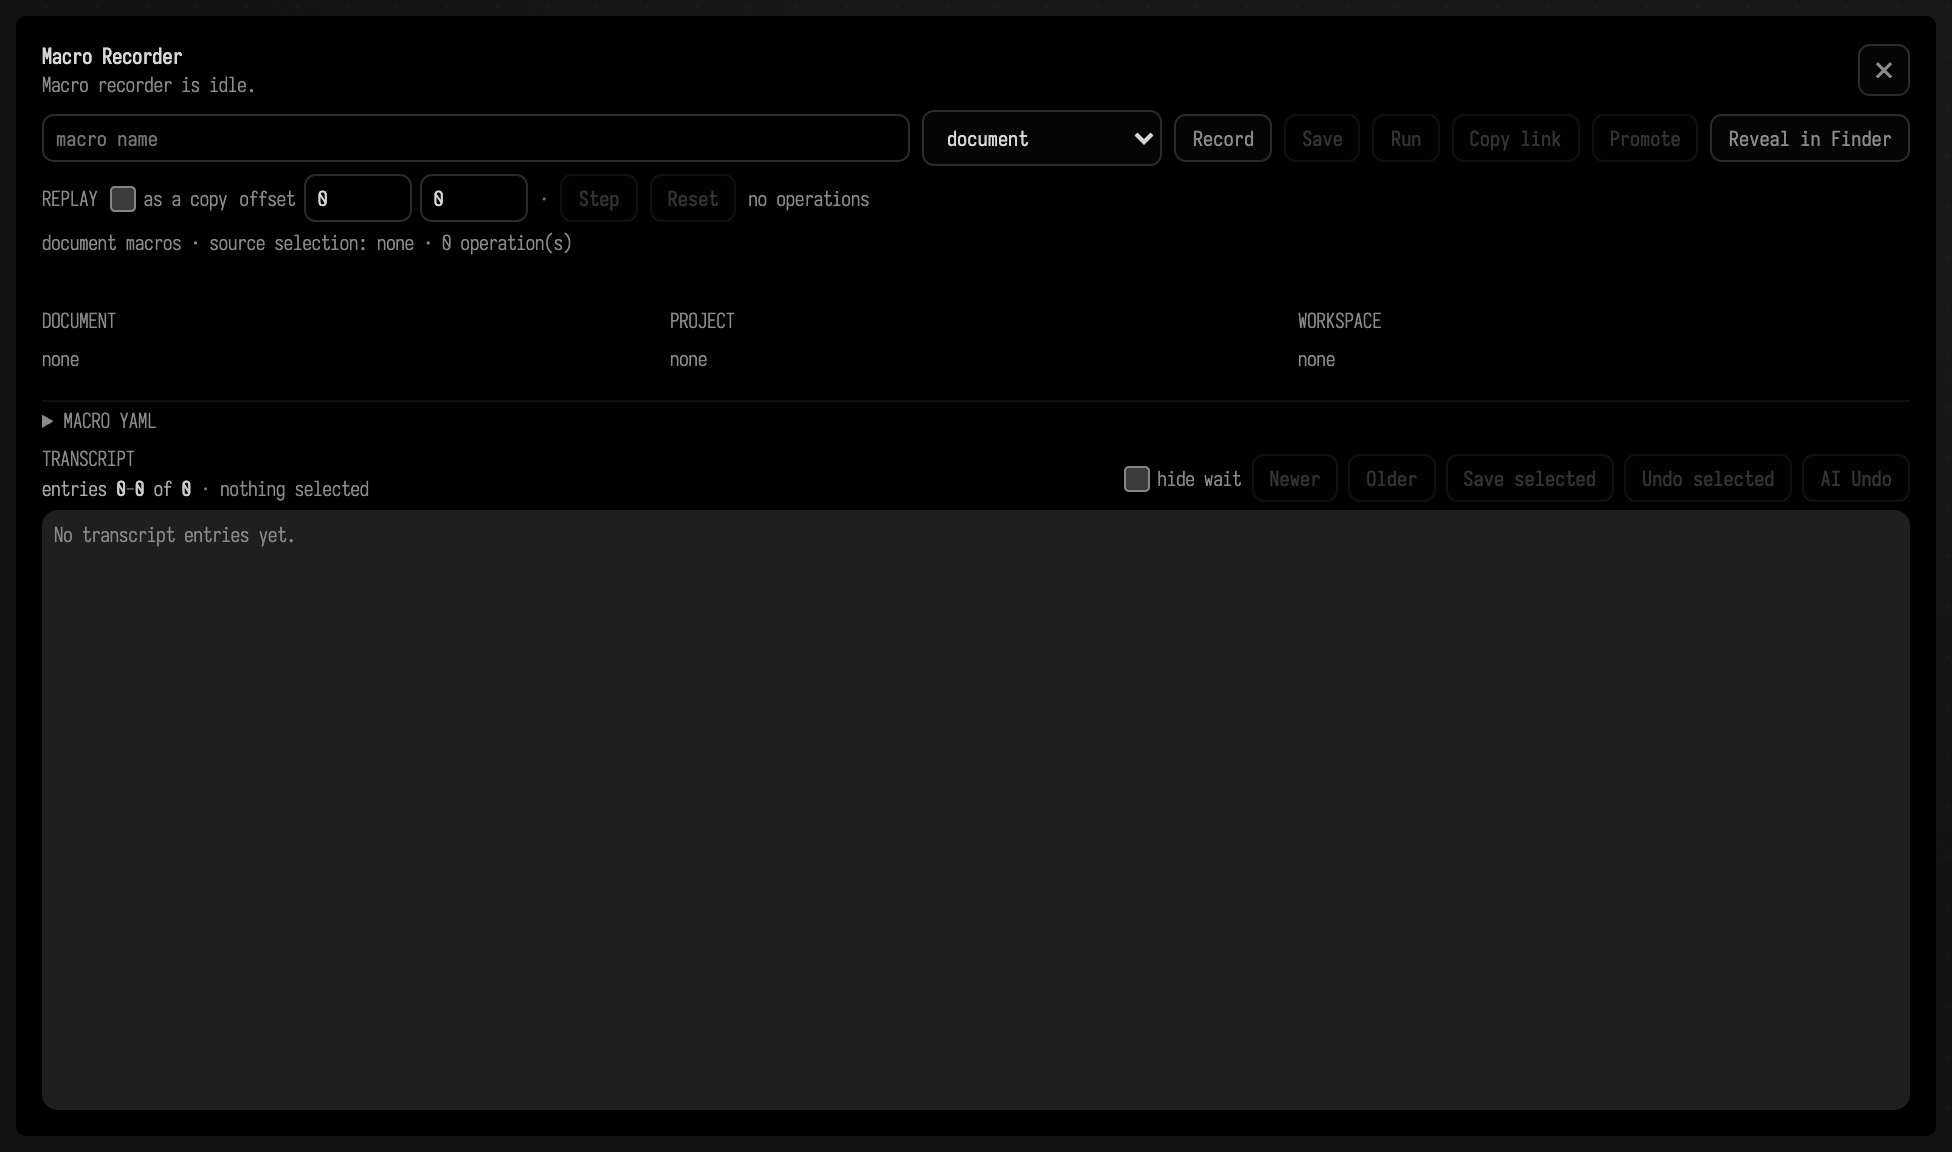
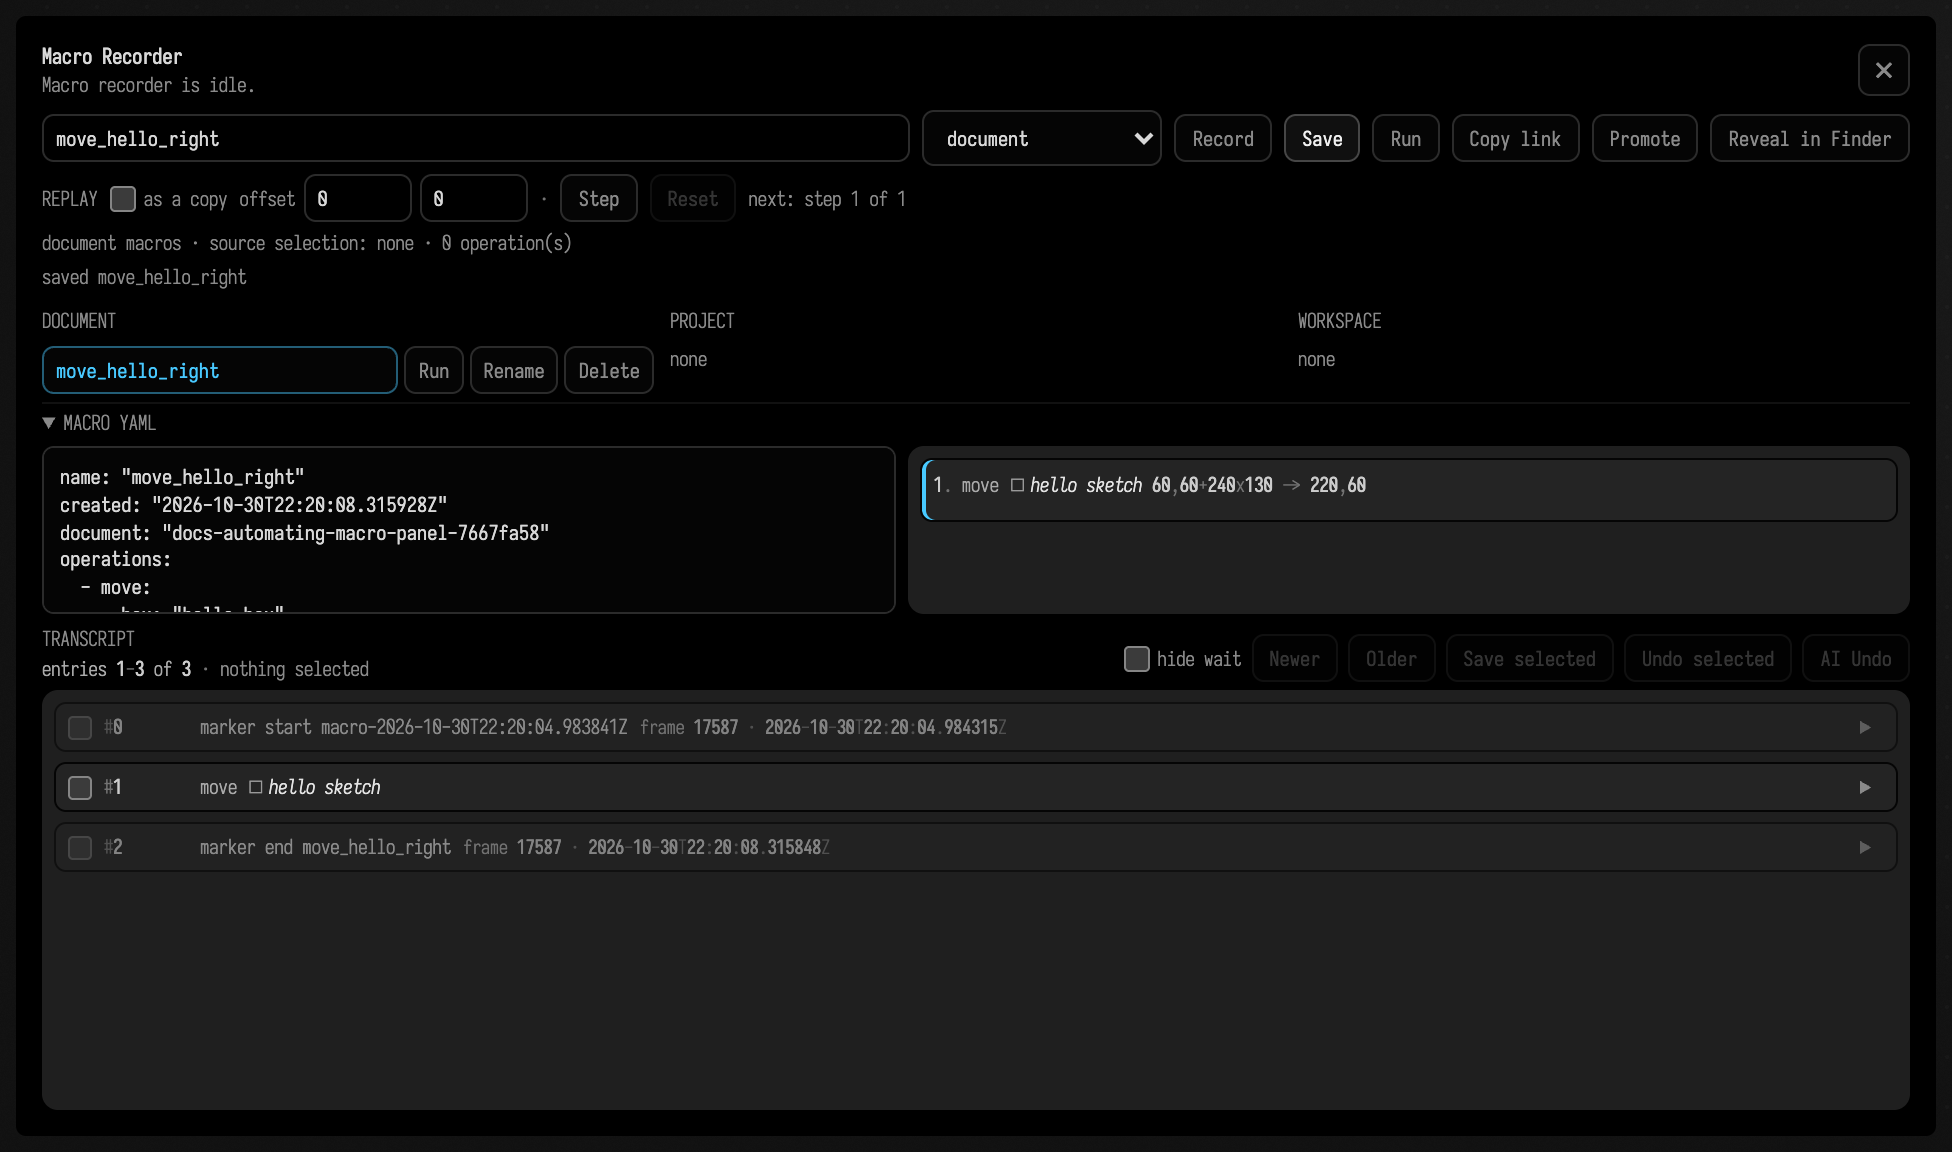
automating_field: the Macro Recorder figure records a real macro
The panel was empty once the runner's own macros were hidden. The drive now records a drag of
the hello sketch box and saves it, as the tour does.

diff --git a/public/docs/automating_field.md b/public/docs/automating_field.md
@@ -71,10 +71,32 @@ another set, shifted by the **offset** you give. **Step** replays one operation 
 marks where you are in the list, which is the easiest way to see what a macro does before you
 trust it with a document.
 
-```diffstatic_runner {data-lang=kotlin capture="ui" region="window" clip-selector=".macro-recorder-panel" screenshot="assets/automating_field/macro-panel.png" transcript="assets/transcripts/greeter_macro.yaml" alt="Field's Macro Recorder panel listing recorded operations" padding="8" wait="0" timeout="90" embed=true hidden=true name="macro-panel"}
-ui.eval("window.macroTranscriptPanel()")
-ui.waitForSelector(".macro-recorder-panel", 8000.0)
-ui.pause(1800)
+```diffstatic_runner {data-lang=kotlin capture="ui" region="window" clip-selector=".macro-recorder-panel" screenshot="assets/automating_field/macro-panel.png" transcript="assets/transcripts/greeter_macro.yaml" alt="The Macro Recorder after recording one macro: the name move_hello_right with Record, Save and Run, the saved macro in the document list, its YAML beside the readable step, one move of the hello sketch box, and the transcript of the recorded move below." padding="8" wait="0" timeout="150" document="docs-automating-macro-panel" fresh-document=true hide-toasts=true embed=true hidden=true name="macro-panel"}
+ui.eval("const a = (window.lastActions || []).find(a => a.id === 'macro-transcript-panel'); if (!a) throw new Error('no action macro-transcript-panel'); a.run(); return true")
+ui.pause(1000)
+// Record a real macro: Record, close the panel so the canvas is clear, drag the hello sketch box to the
+// right with the pointer, reopen the panel, name the recording and Save.
+ui.clickSelector("#macro-recorder-panel [data-action='start']")
+ui.pause(600)
+ui.clickSelector("#macro-recorder-panel [data-action='close']")
+ui.pause(400)
+val r = ui.eval("const b = [...document.querySelectorAll('.box')].find(b => b.uid === 'hello_box'); const q = b.getBoundingClientRect(); return [q.x + q.width / 2, q.y + q.height / 2]").toString().trim('[', ']').split(",").map { it.trim().toDouble() }
+ui.moveMouse(r[0], r[1])
+ui.mouseDown()
+ui.moveMouse(r[0] + 160.0, r[1], steps = 12)
+ui.mouseUp()
+ui.pause(1000)
+ui.eval("const a = (window.lastActions || []).find(a => a.id === 'macro-transcript-panel'); a.run(); return true")
+ui.pause(1000)
+ui.clickSelector("#macro-recorder-panel [data-role='name']")
+ui.type("move_hello_right")
+ui.clickSelector("#macro-recorder-panel [data-action='save']")
+ui.pause(2000)
+val listed = ui.eval("return [...document.querySelectorAll('#macro-recorder-panel [data-role=document-list] [data-macro-name]')].map(b => b.getAttribute('data-macro-name'))").toString()
+check("move_hello_right" in listed) { "the recorded macro is not listed: " + listed }
+check(!listed.contains("_ui_")) { "runner plumbing is listed: " + listed }
+val ops = ui.eval("return document.querySelector('#macro-recorder-panel [data-role=content]')?.value || ''").toString()
+check("- move:" in ops) { "the recorded macro has no move: " + ops }
 ```
 
 ## Driving Field from a script or agent
